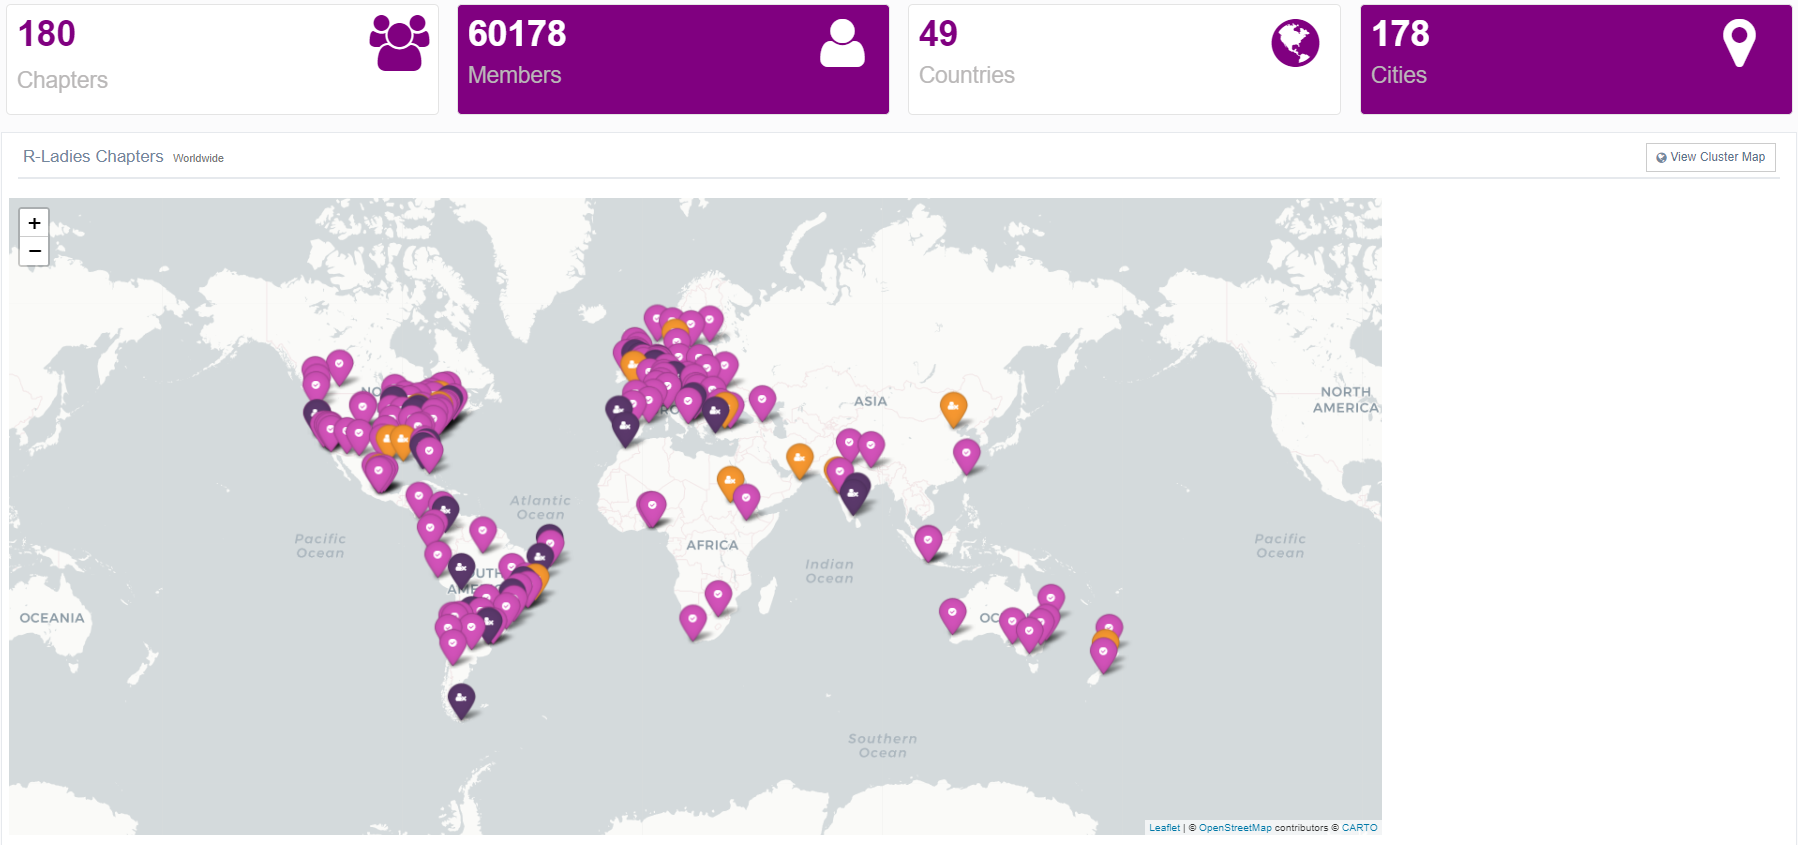
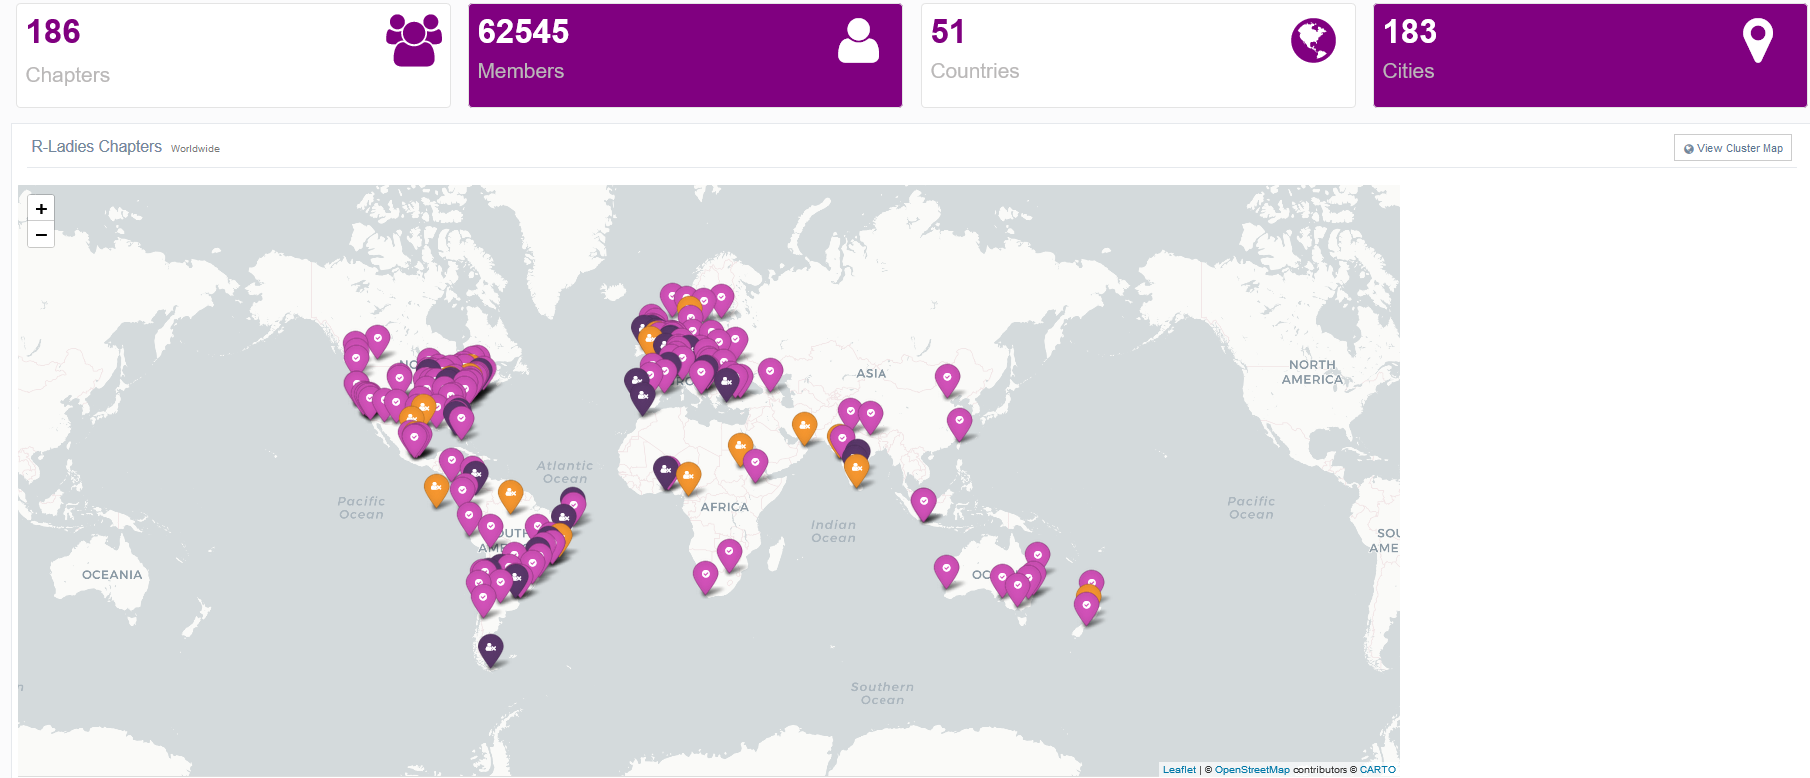
atualizacao capitulo RLadies janeiro/2020

diff --git a/docs/index.html b/docs/index.html
@@ -150,7 +150,7 @@ class:
 ## Comunidade da R-Ladies - Capítulos no mundo
 &lt;img src="img/r-ladies-community.PNG" width="100%" style="display: block; margin: auto;" /&gt;
 
-Atualizado em: Setembro/2019. Fonte: [R Community Explorer](https://benubah.github.io/r-community-explorer/rladies.html) 
+Atualizado em: Janeiro/2020. Fonte: [R Community Explorer](https://benubah.github.io/r-community-explorer/rladies.html) 
 
 ---
 class:    
@@ -172,8 +172,8 @@ class:
 
 Atualizado em: janeiro de 2020. Fonte: [R Community Explorer](https://benubah.github.io/r-community-explorer/rladies.html) 
 
-<div id="htmlwidget-8bffc85d8d8bfb078aa1" style="width:100%;height:auto;" class="datatables html-widget"></div>
-<script type="application/json" data-for="htmlwidget-8bffc85d8d8bfb078aa1">{"x":{"filter":"none","autoHideNavigation":true,"data":[["1","2","3","4","5","6","7","8","9","10","11","12","13","14"],["R-Ladies Belo Horizonte","R-Ladies São Paulo","R-Ladies Rio de Janeiro","R-Ladies Niterói","R-Ladies Floripa","R-Ladies Porto Alegre","R-Ladies Curitiba","R-Ladies Salvador","R-Ladies Natal","R-Ladies Recife","R-Ladies Goiânia","R-Ladies Lavras","R-Ladies Manaus","R-Ladies Vitória"],[758,608,465,462,357,313,203,162,140,138,68,23,21,14],[10,15,5,7,7,6,1,4,3,1,1,1,0,0],[0,0,2,0,0,0,0,0,0,0,0,0,0,0]],"container":"<table class=\"display\">\n  <thead>\n    <tr>\n      <th> <\/th>\n      <th>name<\/th>\n      <th>members<\/th>\n      <th>past_events<\/th>\n      <th>upcoming_events<\/th>\n    <\/tr>\n  <\/thead>\n<\/table>","options":{"pageLength":7,"columnDefs":[{"className":"dt-right","targets":[2,3,4]},{"orderable":false,"targets":0}],"order":[],"autoWidth":false,"orderClasses":false,"lengthMenu":[7,10,25,50,100]}},"evals":[],"jsHooks":[]}</script>
+<div id="htmlwidget-411353f8dfa6b0bca6bf" style="width:100%;height:auto;" class="datatables html-widget"></div>
+<script type="application/json" data-for="htmlwidget-411353f8dfa6b0bca6bf">{"x":{"filter":"none","autoHideNavigation":true,"data":[["1","2","3","4","5","6","7","8","9","10","11","12","13","14"],["R-Ladies Belo Horizonte","R-Ladies São Paulo","R-Ladies Rio de Janeiro","R-Ladies Niterói","R-Ladies Floripa","R-Ladies Porto Alegre","R-Ladies Curitiba","R-Ladies Salvador","R-Ladies Natal","R-Ladies Recife","R-Ladies Goiânia","R-Ladies Lavras","R-Ladies Manaus","R-Ladies Vitória"],[758,608,465,462,357,313,203,162,140,138,68,23,21,14],[10,15,5,7,7,6,1,4,3,1,1,1,0,0],[0,0,2,0,0,0,0,0,0,0,0,0,0,0]],"container":"<table class=\"display\">\n  <thead>\n    <tr>\n      <th> <\/th>\n      <th>name<\/th>\n      <th>members<\/th>\n      <th>past_events<\/th>\n      <th>upcoming_events<\/th>\n    <\/tr>\n  <\/thead>\n<\/table>","options":{"pageLength":7,"columnDefs":[{"className":"dt-right","targets":[2,3,4]},{"orderable":false,"targets":0}],"order":[],"autoWidth":false,"orderClasses":false,"lengthMenu":[7,10,25,50,100]}},"evals":[],"jsHooks":[]}</script>
 
 ---
 class:    
